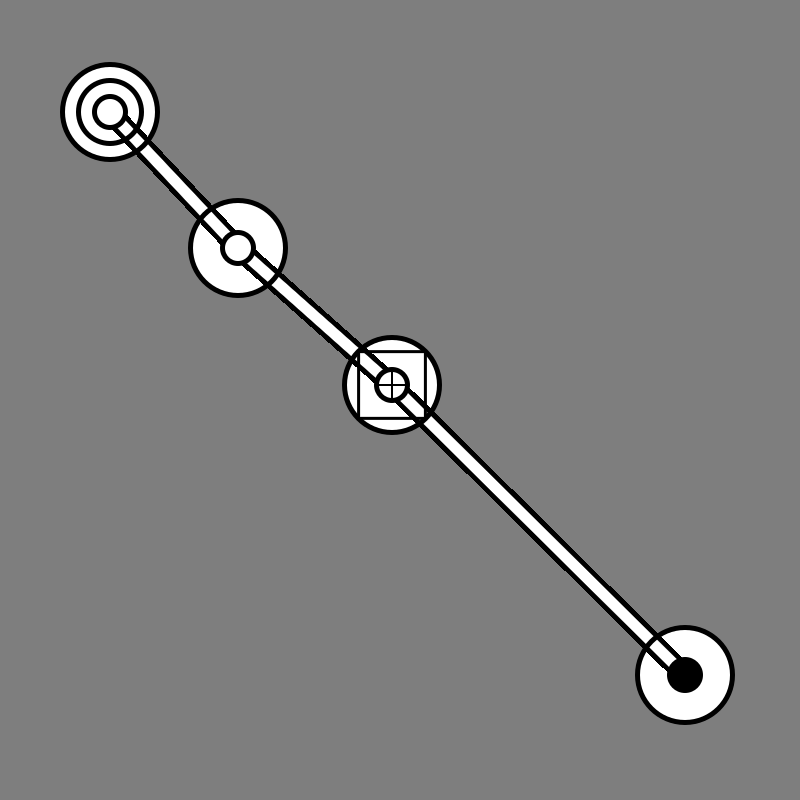
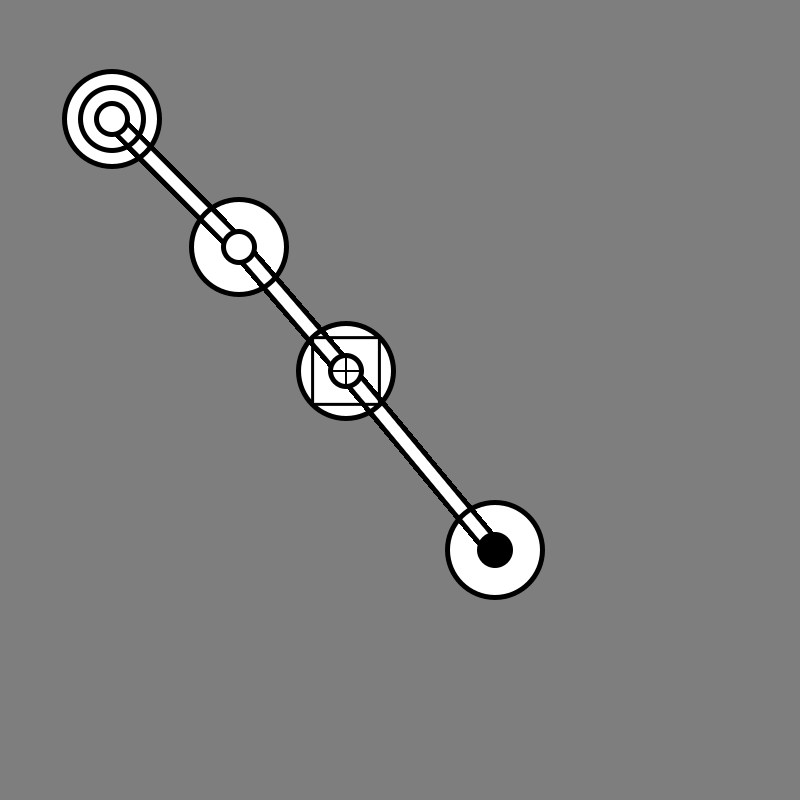
previous fix was an overfix partially unfix the overfix

diff --git a/circles/parser.py b/circles/parser.py
@@ -20,11 +20,7 @@ class Parser:
 
         _, self.stroke = cv2.threshold(self.gray_invert, 150, 255, cv2.THRESH_BINARY)
 
-        self.stroke = morph(self.stroke, 3, cv2.MORPH_CLOSE)
-
         _, self.fill = cv2.threshold(self.gray, 150, 255, cv2.THRESH_BINARY)
-
-        self.fill = morph(self.fill, 3, cv2.MORPH_CLOSE)
 
         self.fill_contours, _ = find_contours(self.fill)
 
